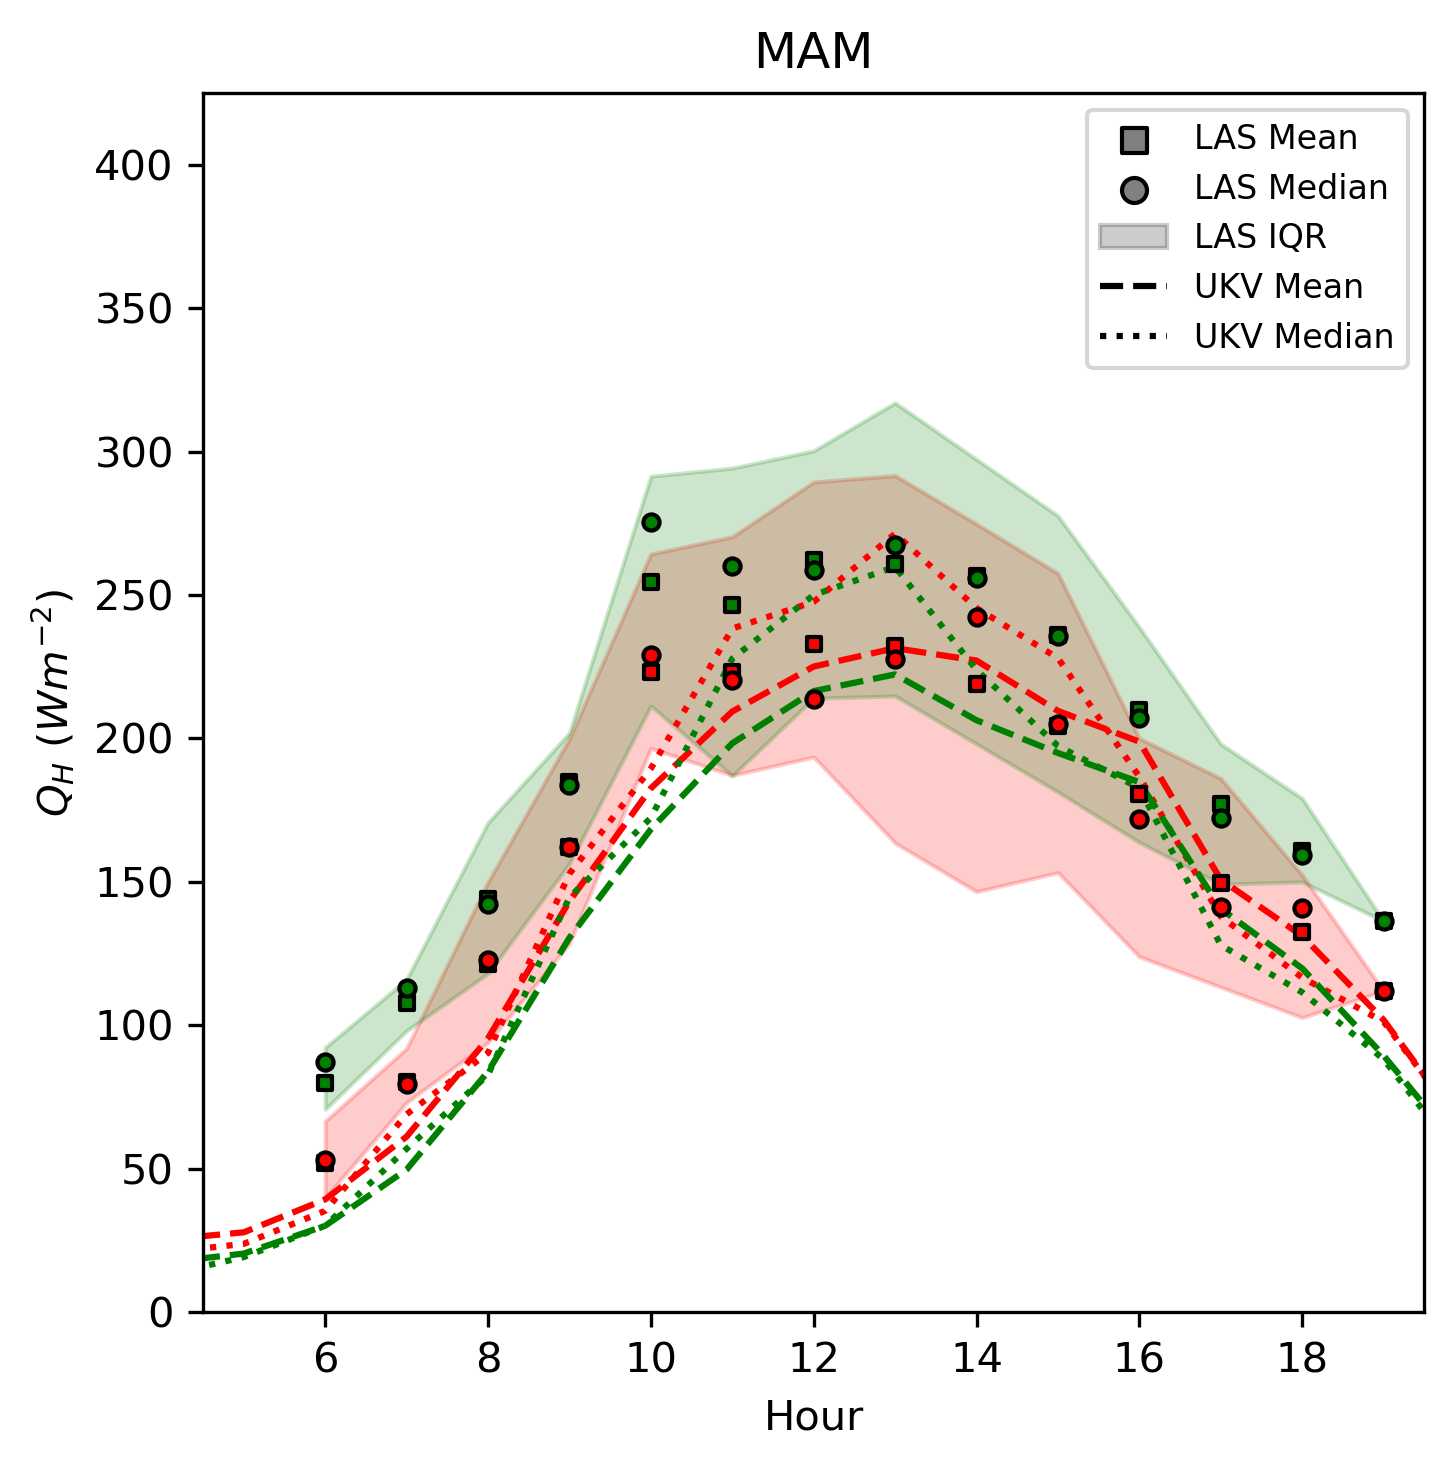
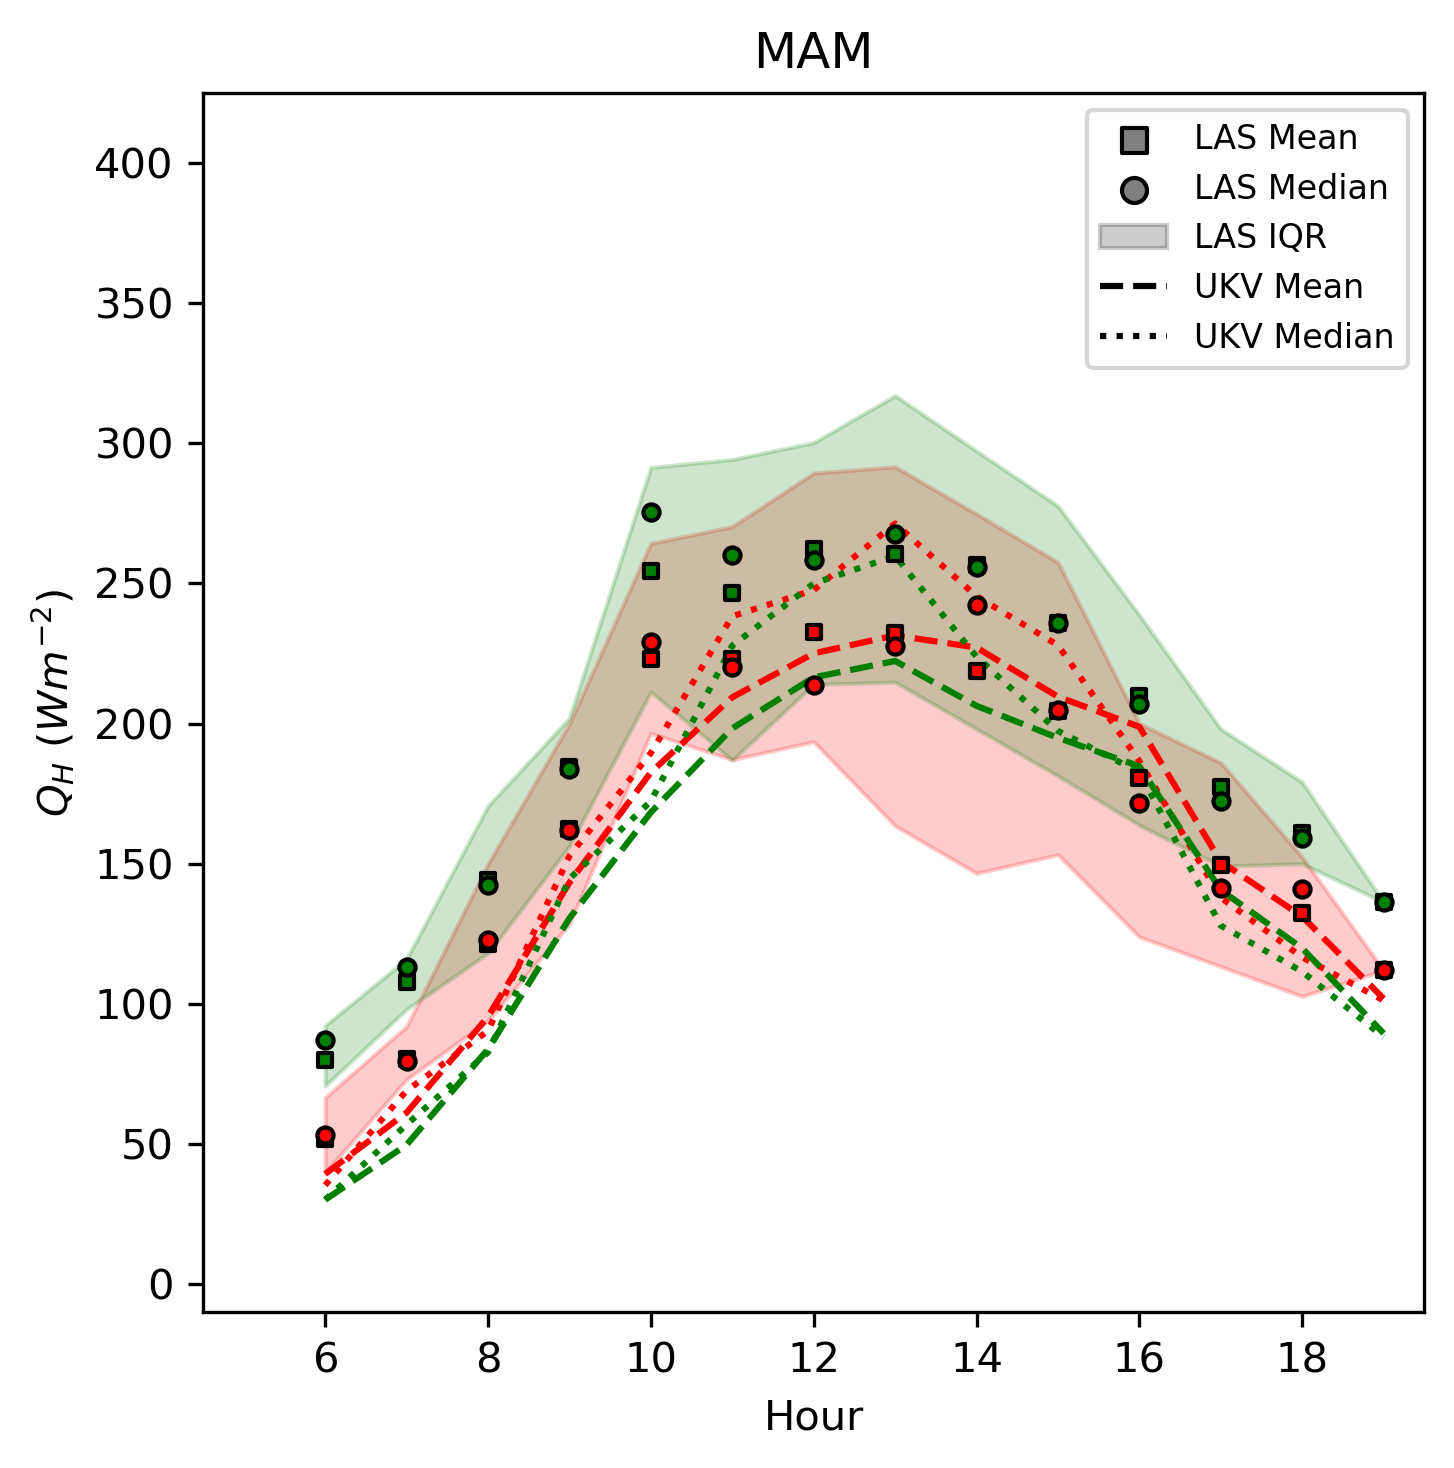
update plots

diff --git a/scint_plots/scint_seasonality/main_seasonality.py b/scint_plots/scint_seasonality/main_seasonality.py
@@ -8,7 +8,7 @@ from scint_plots.tools.preprocessed_UKV_csvs import read_UKV_csvs
 # user choices
 # 11, 13, 15
 # not 12 - this is always included
-path_choice = 11
+path_choice = 15
 
 save_path = os.getcwd().replace('\\', '/') + '/'
 
